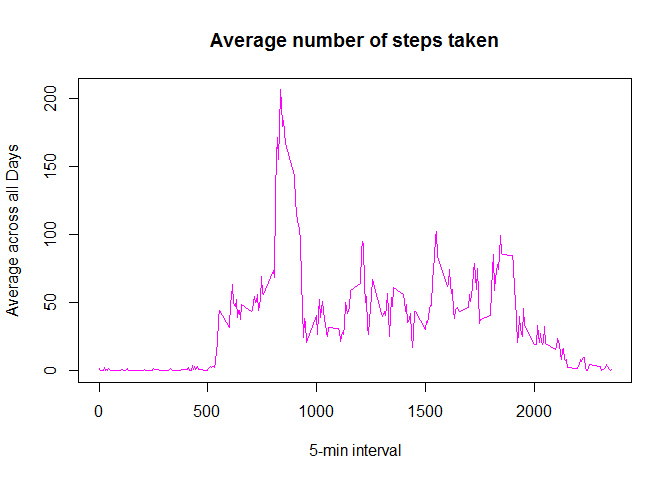
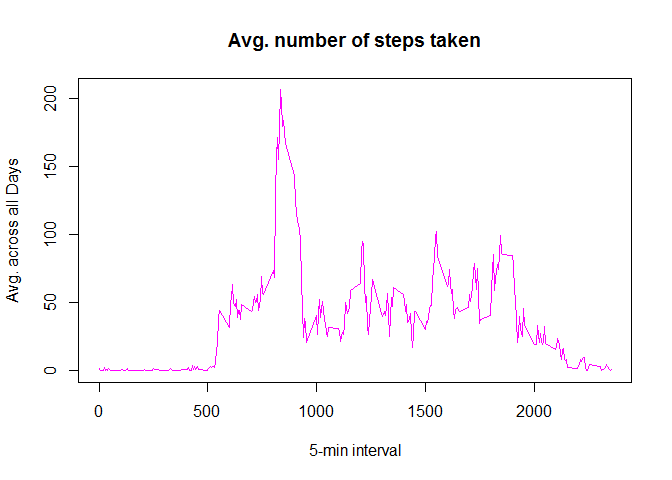
PA1_template.Rmd

Changed region(s): [[0.3125, 0.0625, 0.75, 0.125], [0.0, 0.2812, 0.0312, 0.6562]]

diff --git a/PA1_template.html b/PA1_template.html
@@ -90,15 +90,43 @@ hist(StepsTotal$steps, main = &quot;Total steps by day&quot;, xlab = &quot;day&q
 <h2>What is the average daily activity pattern?</h2>
 <pre class="r"><code>time_series &lt;- tapply(activity$steps, activity$interval, mean, na.rm = TRUE)
 plot(row.names(time_series), time_series, type = &quot;l&quot;, xlab = &quot;5-min interval&quot;, 
-     ylab = &quot;Average across all Days&quot;, main = &quot;Average number of steps taken&quot;, 
+     ylab = &quot;Avg. across all Days&quot;, main = &quot;Avg. number of steps taken&quot;, 
      col = &quot;magenta&quot;)</code></pre>
[2 lines of base64/hex data omitted]
 <pre class="r"><code>max_interval &lt;- which.max(time_series)
 names(max_interval)</code></pre>
 <pre><code>## [1] &quot;835&quot;</code></pre>
 </div>
 <div id="imputing-missing-values" class="section level2">
 <h2>Imputing missing values</h2>
+<pre class="r"><code>activity_NA &lt;- sum(is.na(activity))
+activity_NA</code></pre>
+<pre><code>## [1] 2304</code></pre>
+<pre class="r"><code>StepsAverage &lt;- aggregate(steps ~ interval, data = activity, FUN = mean)
+fillNA &lt;- numeric()
+    for (i in 1:nrow(activity))
+        {
+    obs &lt;- activity[i, ]
+    if (is.na(obs$steps)) {
+        steps &lt;- subset(StepsAverage, interval == obs$interval)$steps
+        } 
+    else 
+    {
+        steps &lt;- obs$steps
+    }
+    fillNA &lt;- c(fillNA, steps)
+        }
+
+new_activity &lt;- activity
+new_activity$steps &lt;- fillNA
+
+StepsTotal2 &lt;- aggregate(steps ~ date, data = new_activity, sum, na.rm = TRUE)
+hist(StepsTotal2$steps, main = &quot;Total steps by day&quot;, xlab = &quot;day&quot;, col = &quot;purple&quot;)</code></pre>
[1 lines of base64/hex data omitted]
+<pre class="r"><code>    mean(StepsTotal2$steps)</code></pre>
+<pre><code>## [1] 10766.19</code></pre>
+<pre class="r"><code>    median(StepsTotal2$steps)</code></pre>
+<pre><code>## [1] 10766.19</code></pre>
 </div>
 <div id="are-there-differences-in-activity-patterns-between-weekdays-and-weekends" class="section level2">
 <h2>Are there differences in activity patterns between weekdays and weekends?</h2>

diff --git a/PA1_template.md b/PA1_template.md
@@ -75,7 +75,7 @@ median(StepsTotal$steps)
 ```r
 time_series <- tapply(activity$steps, activity$interval, mean, na.rm = TRUE)
 plot(row.names(time_series), time_series, type = "l", xlab = "5-min interval", 
-     ylab = "Average across all Days", main = "Average number of steps taken", 
+     ylab = "Avg. across all Days", main = "Avg. number of steps taken", 
      col = "magenta")
 ```
 
@@ -93,6 +93,56 @@ names(max_interval)
 
 
 ## Imputing missing values
+
+```r
+activity_NA <- sum(is.na(activity))
+activity_NA
+```
+
+```
+## [1] 2304
+```
+
+```r
+StepsAverage <- aggregate(steps ~ interval, data = activity, FUN = mean)
+fillNA <- numeric()
+    for (i in 1:nrow(activity))
+        {
+    obs <- activity[i, ]
+    if (is.na(obs$steps)) {
+        steps <- subset(StepsAverage, interval == obs$interval)$steps
+        } 
+    else 
+    {
+        steps <- obs$steps
+    }
+    fillNA <- c(fillNA, steps)
+        }
+
+new_activity <- activity
+new_activity$steps <- fillNA
+
+StepsTotal2 <- aggregate(steps ~ date, data = new_activity, sum, na.rm = TRUE)
+hist(StepsTotal2$steps, main = "Total steps by day", xlab = "day", col = "purple")
+```
+
+![](PA1_template_files/figure-html/unnamed-chunk-4-1.png) 
+
+```r
+    mean(StepsTotal2$steps)
+```
+
+```
+## [1] 10766.19
+```
+
+```r
+    median(StepsTotal2$steps)
+```
+
+```
+## [1] 10766.19
+```
 
 
 
